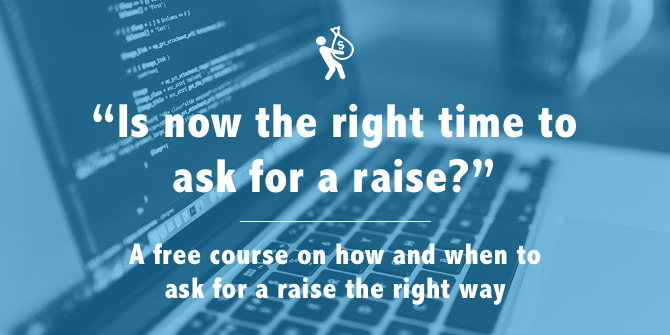
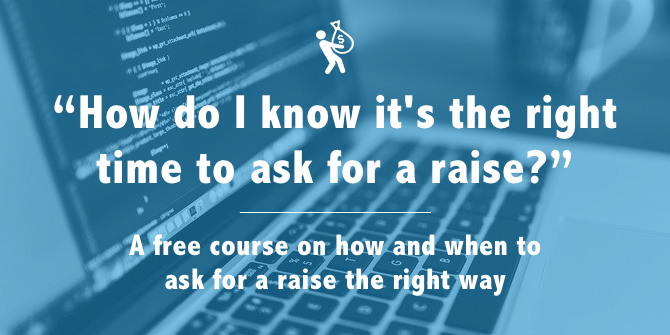
better headline

diff --git a/raise-course.html b/raise-course.html
@@ -1,7 +1,7 @@
 ---
 layout: squeeze
 title: Asking for a raise at work? Here's how to do it the right way
-headline: '"Is now the right time to ask for a raise?"'
+headline: '"How do I know it&#39;s the right time to ask for a raise?"'
 tagline: How and when to ask for a raise at work the right way
 excerpt: Learn how and when to ask for a raise at work the right way with this free, 6-lesson email course
 last_modified_at: 2016-11-01
@@ -10,9 +10,9 @@ fb-event: ViewContent
 ---
 <div class="container container--normal">
   <ul class="checkbox-list">
-    <li class="checkbox-list__item"><strong>Get 6 short lessons right to your inbox</strong>—I'll answer your most urgent questions about how to get a raise at work.</li>
+    <li class="checkbox-list__item"><strong>Get specific feedback to your most pressing questions</strong>—In each lesson, I'll answer your most urgent questions about how to get a raise at your job.</li>
 		<li class="checkbox-list__item"><strong>Learn how and when to ask for a raise</strong>—How to know if there's budget and if you're ready.</li>
-		<li class="checkbox-list__item"><strong>Get a case study showing you how to ask for a raise</strong>—See how Shawn got a $17,000 raise with a couple short conversations.</li>
+		<li class="checkbox-list__item"><strong>Get a detailed case study</strong>—How Shawn got a $17,000 raise with a couple short conversations.</strong></li>
 		<li class="checkbox-list__item"><strong>Plan for the three most common outcomes when asking for a raise.</strong></li>
 	</ul>
 
